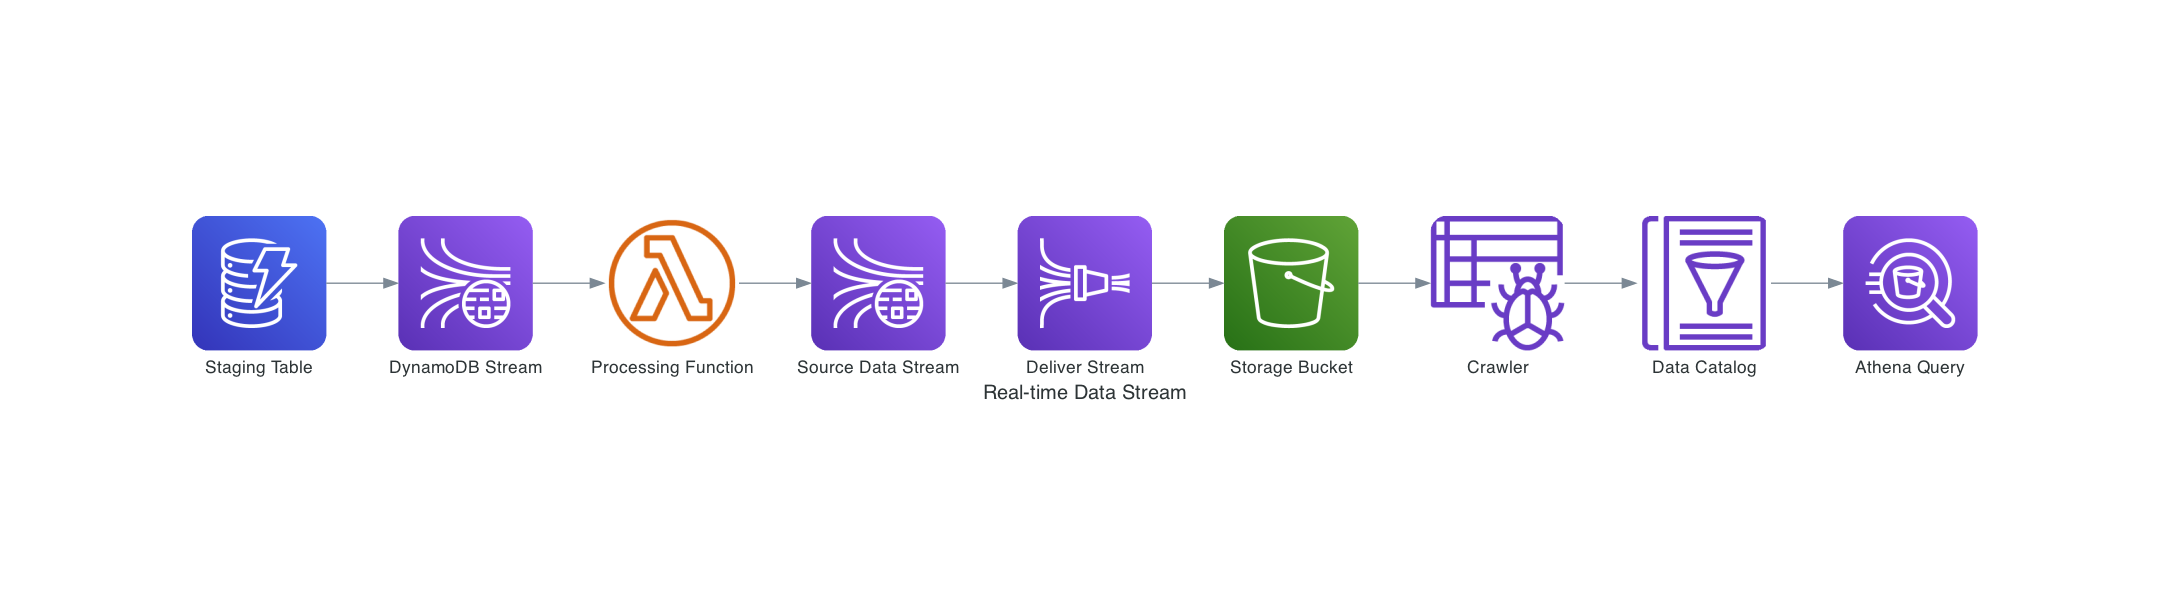
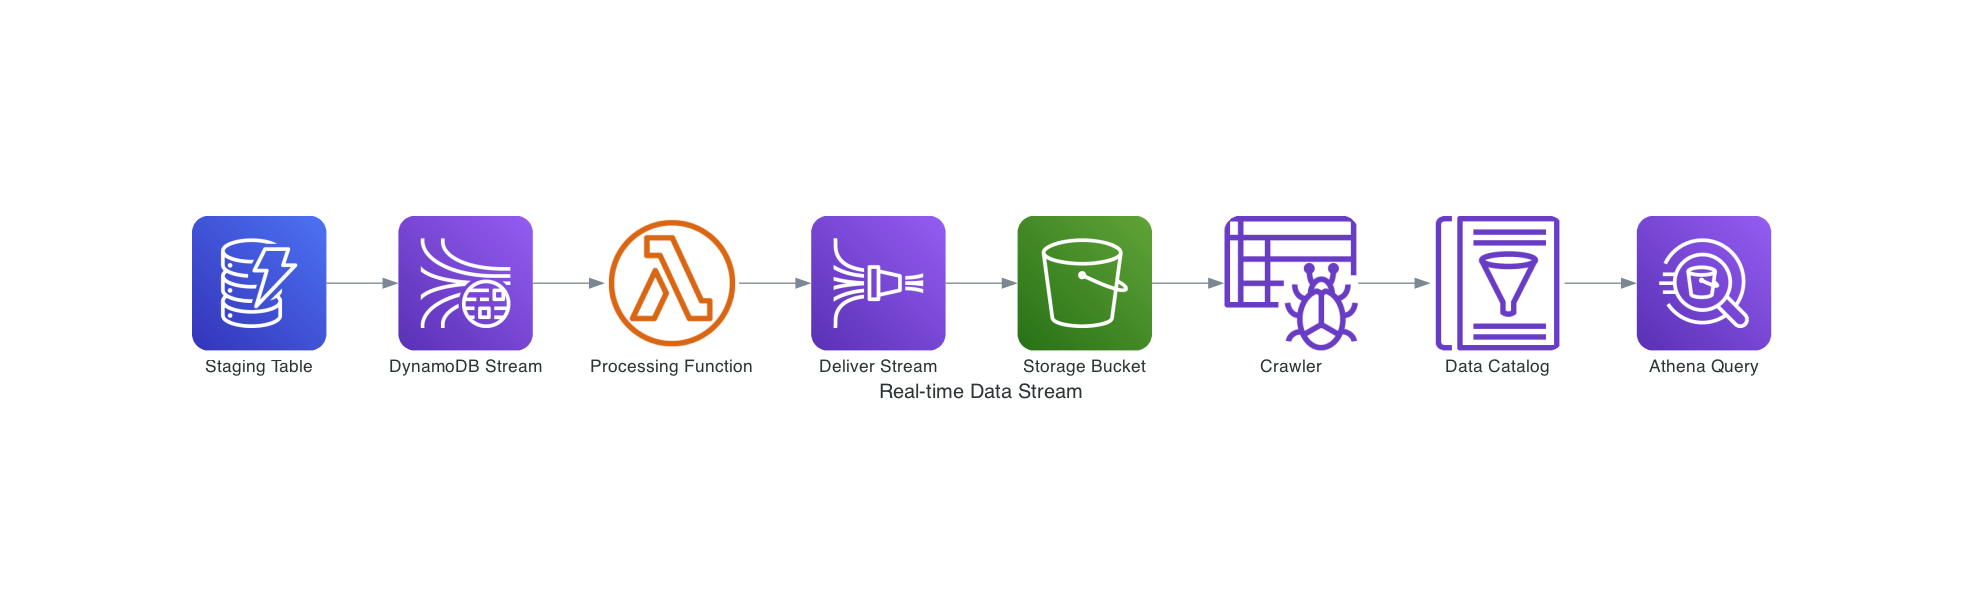
article display

Changed region(s): [[0.0621, 0.3612, 0.9322, 0.6923]]

diff --git a/diagram.py b/diagram.py
@@ -14,11 +14,11 @@ with Diagram("Real-time Data Stream", show=False):
     dynamodb_table = Dynamodb("Staging Table")
     lambda_function = LambdaFunction("Processing Function")
     table_data_stream = KinesisDataStreams("DynamoDB Stream")
-    data_stream = KinesisDataStreams("Source Data Stream")
+    # data_stream = KinesisDataStreams("Source Data Stream")
     deliver_stream = KinesisDataFirehose("Deliver Stream")
     bucket = S3("Storage Bucket")
     crawler = GlueCrawlers("Crawler")
     data_catalog = GlueDataCatalog("Data Catalog")
     athena_query = Athena("Athena Query")
 
-    dynamodb_table >> table_data_stream >> lambda_function >> data_stream >> deliver_stream >> bucket >> crawler >> data_catalog >> athena_query
+    dynamodb_table >> table_data_stream >> lambda_function >> deliver_stream >> bucket >> crawler >> data_catalog >> athena_query

diff --git a/README.md b/README.md
@@ -20,10 +20,5 @@ sam local invoke "StreamingFunction" -e event.json --env-vars channels/variables
 ```
 - Deploy:
 ```
-for file in channels/*.json; do
-    environment=$(jq -r '.Parameters.Environment' "$file")
-    data_source=$(jq -r '.Parameters.DATA_SOURCE' "$file")
-    data_source_arn=$(jq -r '.Parameters.DATA_SOURCE_ARN' "$file")
-    sam deploy --parameter-overrides Environment=$environment DataSource=$data_source DataSourceArn=$data_source_arn --stack-name test-stack --confirm-changeset --no-fail-on-empty-changeset --capabilities CAPABILITY_NAMED_IAM
-done
+sam deploy --parameter-overrides Environment=dev --stack-name test-stack --confirm-changeset --no-fail-on-empty-changeset --capabilities CAPABILITY_NAMED_IAM
 ```
